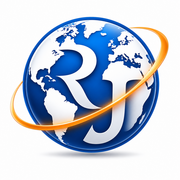
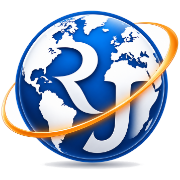
style: update UI branding and assets
- Update theme color to #030814
- Replace badge UI with a simplified logo presentation
- Update brand image assets

diff --git a/index.html b/index.html
@@ -5,7 +5,7 @@
     <meta name="viewport" content="width=device-width, initial-scale=1.0" />
     <title>RJ WORLD BD - E-commerce & Reseller Marketplace</title>
     <meta name="description" content="RJ WORLD BD - Premier E-Commerce, Reselling & Multi-Vendor Marketplace in Bangladesh" />
-    <meta name="theme-color" content="#0EA5E9" />
+    <meta name="theme-color" content="#030814" />
     <meta name="application-name" content="RJ World" />
     <meta name="apple-mobile-web-app-title" content="RJ World" />
     <meta name="apple-mobile-web-app-capable" content="yes" />
@@ -132,20 +132,16 @@
         <div class="rj-ring rj-ring-2"></div>
         <div class="rj-ring rj-ring-3"></div>
 
-        <!-- Glassmorphic Squircle Badge with Electric Blue Glow -->
-        <div class="rj-badge-wrap">
-          <div class="rj-badge-glow"></div>
-          <div class="rj-badge">
-            <!-- Shimmer Light Sweep -->
-            <div class="rj-shimmer"></div>
-            <!-- Genuine Logo with 100% Transparent Background (No white corners) -->
-            <img
-              src="/rj-world-logo.png"
-              alt="RJ WORLD BD"
-              class="rj-logo-img"
-              draggable="false"
-            />
-          </div>
+        <!-- Pure RJ WORLD BD Globe Presentation with Radiant Blue Light Aura (Zero square/rectangle background) -->
+        <div class="rj-logo-pure-wrap">
+          <div class="rj-logo-blue-glow"></div>
+          <div class="rj-shimmer-sweep"></div>
+          <img
+            src="/rj-world-logo.png"
+            alt="RJ WORLD BD"
+            class="rj-logo-pure-img"
+            draggable="false"
+          />
         </div>
 
         <!-- Brand Name & Description with Glowing Blue Gradient -->
@@ -243,7 +239,7 @@
       }
       .rj-ring {
         position: absolute;
-        top: 60px;
+        top: 70px;
         left: 50%;
         transform: translate(-50%, -50%);
         border-radius: 50%;
@@ -269,47 +265,41 @@
         border: 1px dashed rgba(125, 211, 252, 0.2);
         animation: rjRingRotate 20s linear infinite;
       }
-      .rj-badge-wrap {
+      .rj-logo-pure-wrap {
         position: relative;
-      }
-      .rj-badge-glow {
-        position: absolute;
-        inset: -6px;
-        border-radius: 34px;
-        background: linear-gradient(135deg, rgba(56, 189, 248, 0.55), rgba(37, 99, 235, 0.4), rgba(29, 78, 216, 0.6));
-        filter: blur(12px);
-        opacity: 0.85;
-        animation: rjBadgeGlow 2.5s ease-in-out infinite alternate;
-      }
-      .rj-badge {
-        position: relative;
-        width: 120px;
-        height: 120px;
-        border-radius: 28px;
-        padding: 12px;
+        width: 140px;
+        height: 140px;
         display: flex;
         align-items: center;
         justify-content: center;
-        background: linear-gradient(145deg, rgba(29, 78, 216, 0.45) 0%, rgba(15, 23, 42, 0.85) 100%);
-        border: 1.5px solid rgba(56, 189, 248, 0.65);
-        box-shadow: 0 0 35px rgba(37, 99, 235, 0.5), inset 0 1px 2px rgba(255, 255, 255, 0.4), 0 16px 36px rgba(0, 0, 0, 0.65);
-        overflow: hidden;
+        background: transparent !important;
       }
-      .rj-shimmer {
+      .rj-logo-blue-glow {
+        position: absolute;
+        inset: 4px;
+        border-radius: 50%;
+        background: radial-gradient(circle, rgba(56, 189, 248, 0.5) 0%, rgba(37, 99, 235, 0.3) 50%, transparent 75%);
+        filter: blur(18px);
+        opacity: 0.9;
+        pointer-events: none;
+        animation: rjLogoGlow 2.5s ease-in-out infinite alternate;
+      }
+      .rj-shimmer-sweep {
         position: absolute;
         inset: 0;
-        transform: translateX(-150%) skewX(-15deg);
-        background: linear-gradient(90deg, transparent, rgba(255, 255, 255, 0.35), transparent);
-        animation: rjShimmer 2.2s infinite cubic-bezier(0.4, 0, 0.2, 1);
+        border-radius: 50%;
         pointer-events: none;
+        background: linear-gradient(135deg, transparent 20%, rgba(255, 255, 255, 0.28) 50%, transparent 80%);
+        opacity: 0;
+        animation: rjPureShimmer 2.4s infinite cubic-bezier(0.4, 0, 0.2, 1);
       }
-      .rj-logo-img {
+      .rj-logo-pure-img {
         width: 100%;
         height: 100%;
         object-fit: contain;
         background: transparent !important;
-        filter: drop-shadow(0 6px 14px rgba(0, 0, 0, 0.45)) drop-shadow(0 0 14px rgba(56, 189, 248, 0.35));
-        animation: rjLogoReveal 1.1s cubic-bezier(0.16, 1, 0.3, 1) forwards;
+        filter: drop-shadow(0 10px 25px rgba(0, 0, 0, 0.6)) drop-shadow(0 0 20px rgba(56, 189, 248, 0.55));
+        animation: rjLogoReveal 1.2s cubic-bezier(0.16, 1, 0.3, 1) forwards;
       }
       .rj-brand-info {
         margin-top: 24px;
@@ -366,17 +356,24 @@
       }
 
       @keyframes rjLogoReveal {
-        0% { transform: scale(0.82); opacity: 0; }
-        50% { transform: scale(1.05); opacity: 1; }
+        0% { transform: scale(0.85); opacity: 0; }
+        45% { transform: scale(1.06); opacity: 1; }
+        70% { transform: scale(0.98); }
         100% { transform: scale(1); opacity: 1; }
       }
       @keyframes rjFadeUp {
         0% { transform: translateY(12px); opacity: 0; }
         100% { transform: translateY(0); opacity: 1; }
       }
-      @keyframes rjBadgeGlow {
-        0% { opacity: 0.65; transform: scale(0.98); }
-        100% { opacity: 0.95; transform: scale(1.03); }
+      @keyframes rjLogoGlow {
+        0% { opacity: 0.6; transform: scale(0.95); }
+        100% { opacity: 1; transform: scale(1.08); }
+      }
+      @keyframes rjPureShimmer {
+        0% { opacity: 0; transform: rotate(0deg) scale(0.85); }
+        30% { opacity: 0.8; }
+        60% { opacity: 0.3; }
+        100% { opacity: 0; transform: rotate(180deg) scale(1.15); }
       }
       @keyframes rjPulseAura {
         0% { transform: translate(-50%, -50%) scale(0.92); opacity: 0.7; }
@@ -433,16 +430,16 @@
           }
         };
 
-        // Minimum display duration for a complete, satisfying animation (2000ms)
+        // Minimum display duration: exactly 3.0 seconds (3000ms) per user specification
         setTimeout(function() {
           minTimePassed = true;
           if (appReady) {
             dismiss();
           }
-        }, 2000);
+        }, 3000);
 
-        // Fallback safety timeout (max 3200ms)
-        setTimeout(dismiss, 3200);
+        // Fallback safety timeout (4000ms)
+        setTimeout(dismiss, 4000);
 
         // Instant tap to skip
         const splashEl = document.getElementById('rj-splash-screen');

diff --git a/src/components/common/SplashScreen.tsx b/src/components/common/SplashScreen.tsx
@@ -20,7 +20,7 @@ export default function SplashScreen({ onFinish }: SplashScreenProps) {
 
     const checkTimer = setTimeout(() => {
       if (onFinish) onFinish();
-    }, 2200);
+    }, 3000);
 
     return () => clearTimeout(checkTimer);
   }, [onFinish]);
